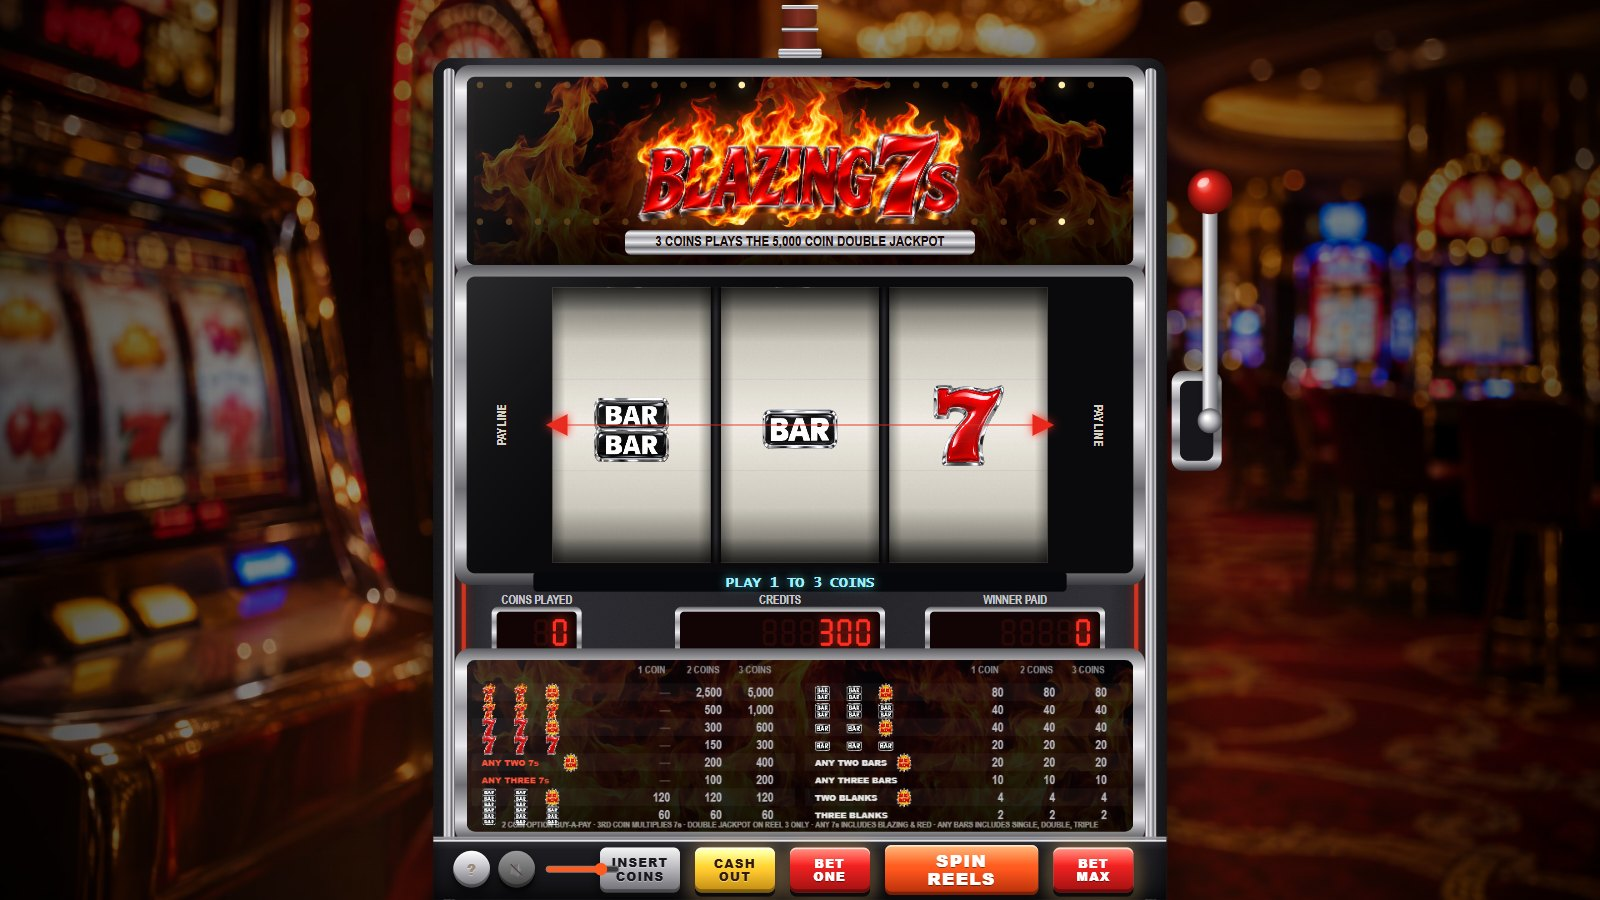
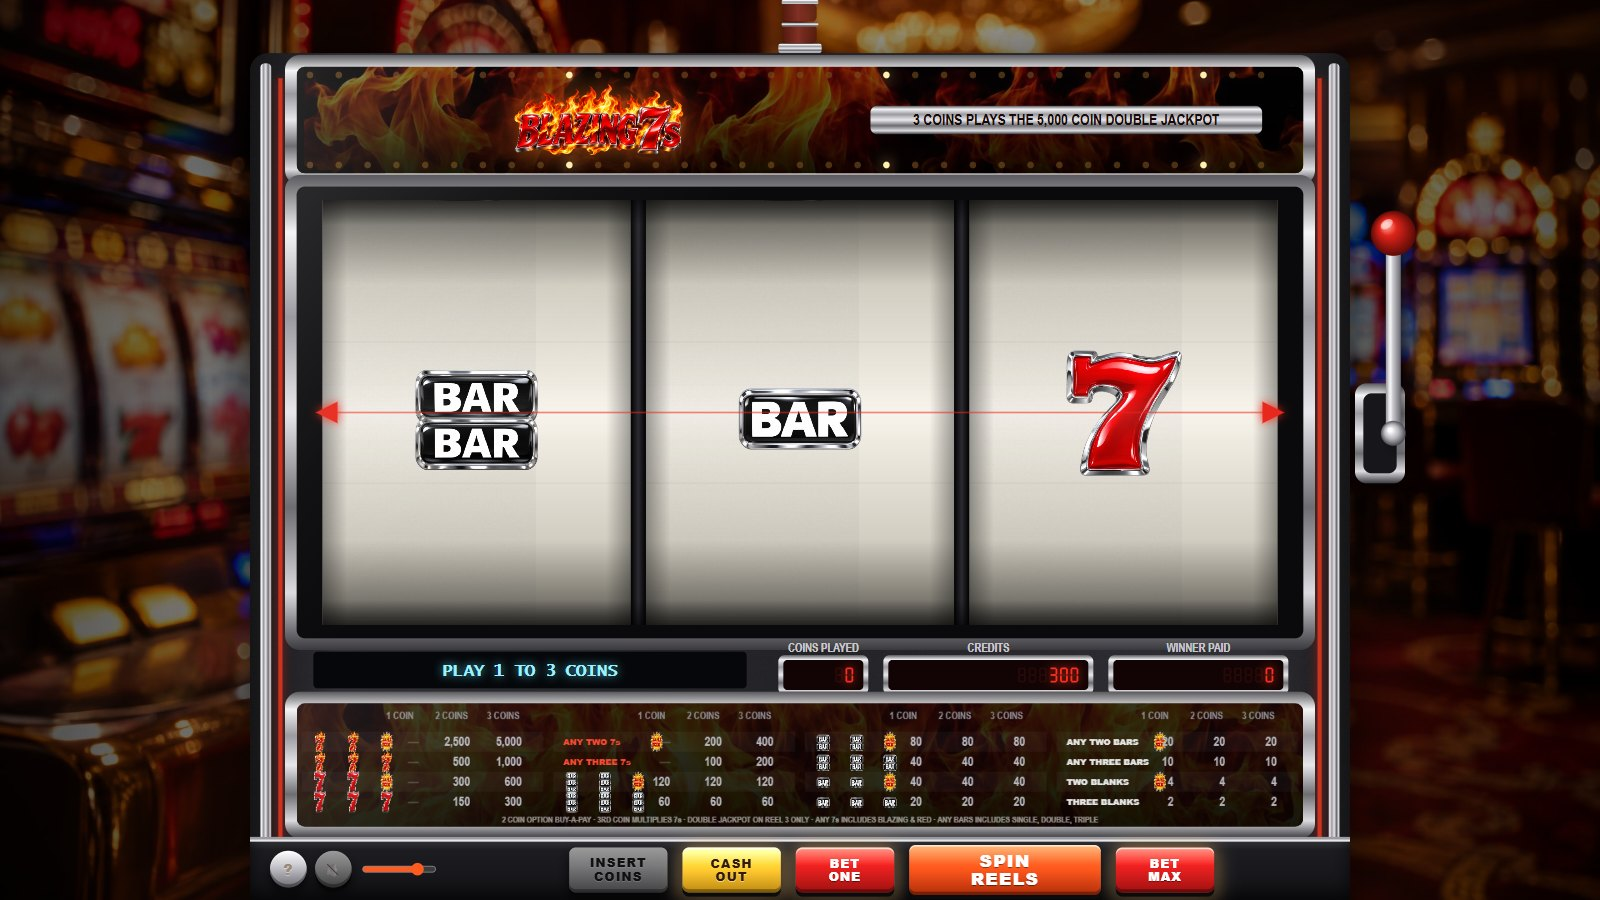
Big stepper reels: 370x170 cells in a 1146x510 window
Wider cabinet with a slim marquee, the message line and meters on one row, a four-column pay glass, and symbols rendered at twice the size, so the reels fill the machine like a real stepper. Screenshots regenerated.

diff --git a/js/renderer.js b/js/renderer.js
@@ -9,15 +9,18 @@
   'use strict';
   const S = root.SEVENS, A = S.assets, FX = S.fx, C = S.CONFIG;
   const W = 1920, H = 1080;
-  const CAB = { x: 520, w: 880, top: 70 };
-  const TOP = { x: 560, y: 92, w: 800, h: 226 };
-  const REEL = { x: 663, y: 345, w: 190, h: 110, rows: 3, cols: 3, gap: 12 };
+  /* The reels dominate the cabinet like a real stepper: 370 x 170 cells in a 1146 x 510 window
+     (about three times the glass area of the first layout), a slim marquee above, the message
+     line and meters on one row below, and a four-column pay glass. */
+  const CAB = { x: 300, w: 1320, top: 64 };
+  const TOP = { x: 356, y: 80, w: 1208, h: 128 };
+  const REEL = { x: 387, y: 240, w: 370, h: 170, rows: 3, cols: 3, gap: 18 };
   REEL.winW = REEL.cols * REEL.w + (REEL.cols - 1) * REEL.gap; REEL.winH = REEL.rows * REEL.h; REEL.cy = REEL.y + REEL.winH / 2;
-  const GLASS = { x: 560, y: 332, w: 800, h: 356 };
-  const VFD = { x: 640, y: 686, w: 640, h: 24 };
-  const METERS = { y: 734, h: 50 };
-  const BELLY = { x: 560, y: 792, w: 800, h: 206 };
-  const LEVER = { pivotX: 1452, pivotY: 505, len: 275, knob: 27 };
+  const GLASS = { x: 356, y: 224, w: 1208, h: 542 };
+  const VFD = { x: 376, y: 782, w: 520, h: 44 };
+  const METERS = { y: 792, h: 36 };
+  const BELLY = { x: 356, y: 844, w: 1208, h: 148 };
+  const LEVER = { pivotX: 1672, pivotY: 520, len: 240, knob: 27 };
   const R_CELLS = 3.2;
   const rr = A.roundRect;
   const FONT_UI = '"Arial Narrow", "Helvetica Neue", Arial, sans-serif';
@@ -125,17 +128,20 @@
     ctx.fillStyle = '#060305'; ctx.fillRect(TOP.x, TOP.y, TOP.w, TOP.h);
     if (flames) { ctx.globalAlpha = 0.55; const r = Math.max(TOP.w / flames.width, TOP.h / flames.height); const fw = flames.width * r, fh = flames.height * r; const drift = Math.sin(now * 0.3) * 20; ctx.drawImage(flames, TOP.x + (TOP.w - fw) / 2 + drift, TOP.y + (TOP.h - fh) / 2 + 20, fw, fh); ctx.globalAlpha = 1; }
     let g = ctx.createLinearGradient(0, TOP.y, 0, TOP.y + TOP.h); g.addColorStop(0, 'rgba(0,0,0,0.1)'); g.addColorStop(0.6, 'rgba(0,0,0,0.55)'); g.addColorStop(1, 'rgba(0,0,0,0.85)'); ctx.fillStyle = g; ctx.fillRect(TOP.x, TOP.y, TOP.w, TOP.h);
-    if (logo) { const bw = 680, bh = 170, r = Math.min(bw / logo.width, bh / logo.height), lw = logo.width * r, lh = logo.height * r; ctx.save(); ctx.shadowColor = 'rgba(255,120,30,0.6)'; ctx.shadowBlur = 30; ctx.drawImage(logo, TOP.x + TOP.w / 2 - lw / 2, TOP.y + 14 + (bh - lh) / 2, lw, lh); ctx.restore(); }
-    else { ctx.fillStyle = '#ff3b1f'; ctx.font = '900 110px Impact, "Arial Black", sans-serif'; ctx.textAlign = 'center'; ctx.textBaseline = 'middle'; ctx.fillText('BLAZING 7s', TOP.x + TOP.w / 2, TOP.y + 100); }
+    /* logo on the left half of the marquee, the top-award plaque on the right */
+    const logoCx = TOP.x + TOP.w * 0.3;
+    if (logo) { const bw = 560, bh = TOP.h - 40, r = Math.min(bw / logo.width, bh / logo.height), lw = logo.width * r, lh = logo.height * r; ctx.save(); ctx.shadowColor = 'rgba(255,120,30,0.6)'; ctx.shadowBlur = 30; ctx.drawImage(logo, logoCx - lw / 2, TOP.y + TOP.h / 2 - lh / 2, lw, lh); ctx.restore(); }
+    else { ctx.fillStyle = '#ff3b1f'; ctx.font = '900 84px Impact, "Arial Black", sans-serif'; ctx.textAlign = 'center'; ctx.textBaseline = 'middle'; ctx.fillText('BLAZING 7s', logoCx, TOP.y + TOP.h / 2); }
     /* top award plaque */
-    this.chrome(ctx, TOP.x + 190, TOP.y + TOP.h - 42, 420, 30, 8, false);
-    ctx.fillStyle = '#1a0a06'; ctx.font = '700 17px ' + FONT_UI; ctx.textAlign = 'center'; ctx.textBaseline = 'middle';
-    ctx.fillText('3 COINS PLAYS THE 5,000 COIN DOUBLE JACKPOT', TOP.x + TOP.w / 2, TOP.y + TOP.h - 27);
-    /* chase lamps around the glass */
-    const lamps = 22, jack = g0.jackpotUntil > now, win = g0.chaseUntil > now;
+    const plaqueX = TOP.x + TOP.w * 0.57, plaqueW = 470;
+    this.chrome(ctx, plaqueX, TOP.y + TOP.h / 2 - 17, plaqueW, 34, 8, false);
+    ctx.fillStyle = '#1a0a06'; ctx.font = '700 18px ' + FONT_UI; ctx.textAlign = 'center'; ctx.textBaseline = 'middle';
+    ctx.fillText('3 COINS PLAYS THE 5,000 COIN DOUBLE JACKPOT', plaqueX + plaqueW / 2, TOP.y + TOP.h / 2 + 1);
+    /* chase lamps along the top and bottom edges of the glass */
+    const lamps = 34, jack = g0.jackpotUntil > now, win = g0.chaseUntil > now;
     for (let i = 0; i < lamps; i++) {
       const u = i / lamps, lx = TOP.x + 16 + u * (TOP.w - 32), on = jack ? (Math.floor(now * 10) + i) % 3 === 0 : win ? (Math.floor(now * 7) + i) % 4 === 0 : (Math.floor(now * 1.5) + i) % 11 === 0;
-      [TOP.y + 10, TOP.y + TOP.h - 52].forEach(ly => { ctx.save(); if (on) { ctx.shadowColor = '#ffd36a'; ctx.shadowBlur = 14; } ctx.fillStyle = on ? '#fff0b0' : 'rgba(120,80,30,0.6)'; ctx.beginPath(); ctx.arc(lx, ly, 4, 0, 6.283); ctx.fill(); ctx.restore(); });
+      [TOP.y + 10, TOP.y + TOP.h - 10].forEach(ly => { ctx.save(); if (on) { ctx.shadowColor = '#ffd36a'; ctx.shadowBlur = 14; } ctx.fillStyle = on ? '#fff0b0' : 'rgba(120,80,30,0.6)'; ctx.beginPath(); ctx.arc(lx, ly, 4, 0, 6.283); ctx.fill(); ctx.restore(); });
     }
     /* glass reflection */
     g = ctx.createLinearGradient(TOP.x, TOP.y, TOP.x + TOP.w * 0.5, TOP.y + TOP.h); g.addColorStop(0, 'rgba(255,255,255,0.14)'); g.addColorStop(0.35, 'rgba(255,255,255,0.02)'); g.addColorStop(0.5, 'rgba(255,255,255,0)'); ctx.fillStyle = g; ctx.fillRect(TOP.x, TOP.y, TOP.w, TOP.h);
@@ -200,9 +206,6 @@
       ctx.save(); ctx.shadowColor = '#ff2a1a'; ctx.shadowBlur = 10; ctx.fillStyle = hot ? '#ffe27a' : '#e8281c';
       ctx.beginPath(); ctx.moveTo(x, py); ctx.lineTo(x - dir * 26, py - 13); ctx.lineTo(x - dir * 26, py + 13); ctx.closePath(); ctx.fill(); ctx.restore();
     });
-    ctx.fillStyle = '#d8d0c0'; ctx.font = '700 15px ' + FONT_UI; ctx.textBaseline = 'middle'; ctx.textAlign = 'center';
-    ctx.save(); ctx.translate(REEL.x - 60, py); ctx.rotate(-Math.PI / 2); ctx.fillText('PAYLINE', 0, 0); ctx.restore();
-    ctx.save(); ctx.translate(REEL.x + REEL.winW + 60, py); ctx.rotate(Math.PI / 2); ctx.fillText('PAYLINE', 0, 0); ctx.restore();
     /* glass reflections */
     let g = ctx.createLinearGradient(GLASS.x, GLASS.y, GLASS.x + GLASS.w * 0.5, GLASS.y + GLASS.h); g.addColorStop(0, 'rgba(255,255,255,0.13)'); g.addColorStop(0.3, 'rgba(255,255,255,0.03)'); g.addColorStop(0.5, 'rgba(255,255,255,0)'); ctx.fillStyle = g; ctx.fillRect(GLASS.x, GLASS.y, GLASS.w, GLASS.h);
     g = ctx.createLinearGradient(0, REEL.y, 0, REEL.y + 30); g.addColorStop(0, 'rgba(0,0,0,0.6)'); g.addColorStop(1, 'rgba(0,0,0,0)'); ctx.fillStyle = g; ctx.fillRect(REEL.x, REEL.y, REEL.winW, 30);
@@ -215,7 +218,7 @@
     const g0 = this.game;
     ctx.fillStyle = '#05070a'; rr(ctx, VFD.x, VFD.y, VFD.w, VFD.h, 5); ctx.fill();
     ctx.save(); ctx.shadowColor = 'rgba(90,230,255,0.9)'; ctx.shadowBlur = 10; ctx.fillStyle = '#9ff1ff';
-    ctx.font = '700 17px "Lucida Console", Consolas, monospace'; ctx.textAlign = 'center'; ctx.textBaseline = 'middle';
+    ctx.font = '700 20px "Lucida Console", Consolas, monospace'; ctx.textAlign = 'center'; ctx.textBaseline = 'middle';
     const msg = g0.message || '';
     const blink = g0.messageBlink && Math.floor(now * 1.6) % 2 === 1;
     if (!blink) ctx.fillText(msg, VFD.x + VFD.w / 2, VFD.y + VFD.h / 2 + 1);
@@ -249,7 +252,7 @@
   };
   P.drawMeters = function (ctx, now) {
     const g0 = this.game, y = METERS.y, h = METERS.h;
-    const items = [['COINS PLAYED', String(g0.coinsPlayed), 2, 596], ['CREDITS', String(Math.max(0, Math.round(g0.credits))), 6, 816], ['WINNER PAID', String(Math.round(g0.winnerPaid)), 5, 1116]];
+    const items = [['COINS PLAYED', String(g0.coinsPlayed), 2, 940], ['CREDITS', String(Math.max(0, Math.round(g0.credits))), 6, 1066], ['WINNER PAID', String(Math.round(g0.winnerPaid)), 5, 1336]];
     items.forEach(([label, value, digits, x]) => {
       const w = digits * 36 + 24;
       ctx.fillStyle = '#c8c8cc'; ctx.font = '700 14px ' + FONT_UI; ctx.textAlign = 'center'; ctx.textBaseline = 'middle';
@@ -269,9 +272,10 @@
     ctx.fillStyle = '#07050a'; ctx.fillRect(0, 0, BELLY.w, BELLY.h);
     if (flames) { ctx.globalAlpha = 0.28; const r = Math.max(BELLY.w / flames.width, BELLY.h / flames.height); ctx.drawImage(flames, (BELLY.w - flames.width * r) / 2, BELLY.h - flames.height * r + 40, flames.width * r, flames.height * r); ctx.globalAlpha = 1; }
     const g = ctx.createLinearGradient(0, 0, 0, BELLY.h); g.addColorStop(0, 'rgba(0,0,0,0.3)'); g.addColorStop(1, 'rgba(0,0,0,0.7)'); ctx.fillStyle = g; ctx.fillRect(0, 0, BELLY.w, BELLY.h);
-    const colW = BELLY.w / 2, rowH = 21, top = 30, iconS = 18, iconGap = 38;
-    const header = (x0) => { ctx.font = '700 12px ' + FONT_UI; ctx.textAlign = 'center'; ctx.textBaseline = 'middle'; [1, 2, 3].forEach((cn, i) => { const lit = cn === coins; ctx.fillStyle = lit ? '#ffe27a' : '#8a8a90'; ctx.fillText(cn + (cn > 1 ? ' COINS' : ' COIN'), x0 + colW - 178 + i * 62, 13); }); };
-    header(0); header(colW);
+    /* four columns of four combinations, so the glass stays a wide strip under the big reels */
+    const colW = BELLY.w / 4, rowH = 24, top = 36, iconS = 20, iconGap = 40;
+    const header = (x0) => { ctx.font = '700 12px ' + FONT_UI; ctx.textAlign = 'center'; ctx.textBaseline = 'middle'; [1, 2, 3].forEach((cn, i) => { const lit = cn === coins; ctx.fillStyle = lit ? '#ffe27a' : '#8a8a90'; ctx.fillText(cn + (cn > 1 ? ' COINS' : ' COIN'), x0 + colW - 178 + i * 62, 16); }); };
+    for (let c = 0; c < 4; c++) header(c * colW);
     const drawIcon = (sym, x, y) => {
       ctx.textBaseline = 'middle'; ctx.textAlign = 'center';
       if (sym === 'A7') { ctx.fillStyle = '#ff4a30'; ctx.font = '900 11px ' + FONT_UI; ctx.fillText('ANY 7', x + iconS / 2, y + iconS / 2 + 1); return; }
@@ -280,7 +284,7 @@
       const img = A.symbol(sym, 0); if (img) ctx.drawImage(img, x - 8, y - 4, iconS + 16, iconS + 8);
     };
     C.paytable.forEach((row, i) => {
-      const col = i < 8 ? 0 : 1, ri = i % 8, x0 = col * colW + 18, y = top + ri * rowH;
+      const col = Math.floor(i / 4), ri = i % 4, x0 = col * colW + 18, y = top + ri * rowH;
       if (ri % 2 === 0) { ctx.fillStyle = 'rgba(255,255,255,0.035)'; ctx.fillRect(col * colW + 6, y - 2, colW - 12, rowH); }
       const first = row.pat[0];
       if (first === 'A7' || first === 'AB' || first === 'BL') {
@@ -310,10 +314,10 @@
     ctx.drawImage(this.payGlass, BELLY.x, BELLY.y);
     const pr = g0.present;
     if (pr && pr.row != null) {
-      const i = pr.row, col = i < 8 ? 0 : 1, ri = i % 8, colW = BELLY.w / 2, y = BELLY.y + 30 + ri * 21 - 2;
+      const i = pr.row, col = Math.floor(i / 4), ri = i % 4, colW = BELLY.w / 4, y = BELLY.y + 36 + ri * 24 - 2;
       const on = Math.floor((now - pr.t0) * 5) % 2 === 0;
-      ctx.fillStyle = on ? 'rgba(255,220,100,0.32)' : 'rgba(255,220,100,0.12)'; ctx.fillRect(BELLY.x + col * colW + 6, y, colW - 12, 21);
-      ctx.strokeStyle = 'rgba(255,230,140,0.9)'; ctx.lineWidth = 1.5; ctx.strokeRect(BELLY.x + col * colW + 6, y, colW - 12, 21);
+      ctx.fillStyle = on ? 'rgba(255,220,100,0.32)' : 'rgba(255,220,100,0.12)'; ctx.fillRect(BELLY.x + col * colW + 6, y, colW - 12, 24);
+      ctx.strokeStyle = 'rgba(255,230,140,0.9)'; ctx.lineWidth = 1.5; ctx.strokeRect(BELLY.x + col * colW + 6, y, colW - 12, 24);
     }
     const g = ctx.createLinearGradient(BELLY.x, BELLY.y, BELLY.x + BELLY.w * 0.5, BELLY.y + BELLY.h); g.addColorStop(0, 'rgba(255,255,255,0.1)'); g.addColorStop(0.4, 'rgba(255,255,255,0.02)'); g.addColorStop(0.5, 'rgba(255,255,255,0)'); ctx.fillStyle = g; ctx.fillRect(BELLY.x, BELLY.y, BELLY.w, BELLY.h);
     ctx.restore();
@@ -349,7 +353,7 @@
       const t = g0.jackpotUntil - now, a = Math.min(1, t / 0.5);
       ctx.save(); ctx.globalAlpha = a;
       ctx.font = '900 118px Impact, "Arial Black", sans-serif'; ctx.textAlign = 'center'; ctx.textBaseline = 'middle';
-      const sc = 1 + 0.04 * Math.sin(now * 9); ctx.translate(W / 2, TOP.y + 96); ctx.scale(sc, sc);
+      const sc = 1 + 0.04 * Math.sin(now * 9); ctx.translate(W / 2, REEL.cy); ctx.scale(sc, sc);
       ctx.shadowColor = 'rgba(255,170,40,0.95)'; ctx.shadowBlur = 50; ctx.lineWidth = 10; ctx.strokeStyle = '#3a0a04'; ctx.strokeText('JACKPOT', 0, 0);
       const g = ctx.createLinearGradient(0, -55, 0, 55); g.addColorStop(0, '#fff6c8'); g.addColorStop(0.45, '#ffd54a'); g.addColorStop(0.55, '#e8281c'); g.addColorStop(1, '#8a1208');
       ctx.shadowBlur = 0; ctx.fillStyle = g; ctx.fillText('JACKPOT', 0, 0);

diff --git a/css/style.css b/css/style.css
@@ -5,13 +5,13 @@ html, body { margin: 0; height: 100%; background: #000; overflow: hidden; font-f
 #stage { position: fixed; left: 50%; top: 50%; width: 1920px; height: 1080px; transform: translate(-50%, -50%); transform-origin: center center; }
 #game { position: absolute; left: 0; top: 0; display: block; }
 
-#lever-hit { position: absolute; left: 1396px; top: 200px; width: 130px; height: 360px; background: transparent; border: 0; cursor: pointer; outline: none; }
+#lever-hit { position: absolute; left: 1606px; top: 250px; width: 130px; height: 360px; background: transparent; border: 0; cursor: pointer; outline: none; }
 #lever-hit.ready:hover { background: radial-gradient(ellipse at 50% 20%, rgba(255,255,255,.08), transparent 70%); }
 
 /* ------------------------------------------------------------- button deck */
-#deck { position: absolute; left: 520px; top: 1004px; width: 880px; height: 76px;
+#deck { position: absolute; left: 300px; top: 1004px; width: 1320px; height: 76px;
   background: linear-gradient(180deg, #3a3a40 0%, #1c1c21 18%, #121216 100%);
-  border-top: 3px solid #9a9aa0; box-shadow: inset 0 3px 0 #e8e8ec, inset 0 -8px 20px rgba(0,0,0,.7); display: flex; align-items: center; justify-content: center; gap: 18px; padding: 0 40px 0 200px; }
+  border-top: 3px solid #9a9aa0; box-shadow: inset 0 3px 0 #e8e8ec, inset 0 -8px 20px rgba(0,0,0,.7); display: flex; align-items: center; justify-content: center; gap: 18px; padding: 0 40px 0 260px; }
 .key { font-family: var(--font); font-weight: 900; font-size: 15px; line-height: 1.05; letter-spacing: 1px; color: #2a1a06; border: 0; cursor: pointer; outline: none;
   width: 118px; height: 54px; border-radius: 8px; text-shadow: 0 1px 0 rgba(255,255,255,.35);
   box-shadow: inset 0 2px 0 rgba(255,255,255,.55), inset 0 -4px 0 rgba(0,0,0,.35), 0 5px 0 #0a0a0c, 0 8px 14px rgba(0,0,0,.7); transition: transform .05s, filter .15s; }

diff --git a/js/main.js b/js/main.js
@@ -29,7 +29,7 @@
     S.game = game; S.renderer = renderer; S.ui = ui;
     setupDebug();
 
-    S.assets.load(p => ui.setProgress(p)).then(() => { S.assets.prepareSymbols(380, 220); ui.buildHelp(); ui.assetsLoaded(); });
+    S.assets.load(p => ui.setProgress(p)).then(() => { S.assets.prepareSymbols(740, 340); ui.buildHelp(); ui.assetsLoaded(); });
 
     S.timeOffset = 0;
     const clock = () => performance.now() / 1000 + S.timeOffset;
